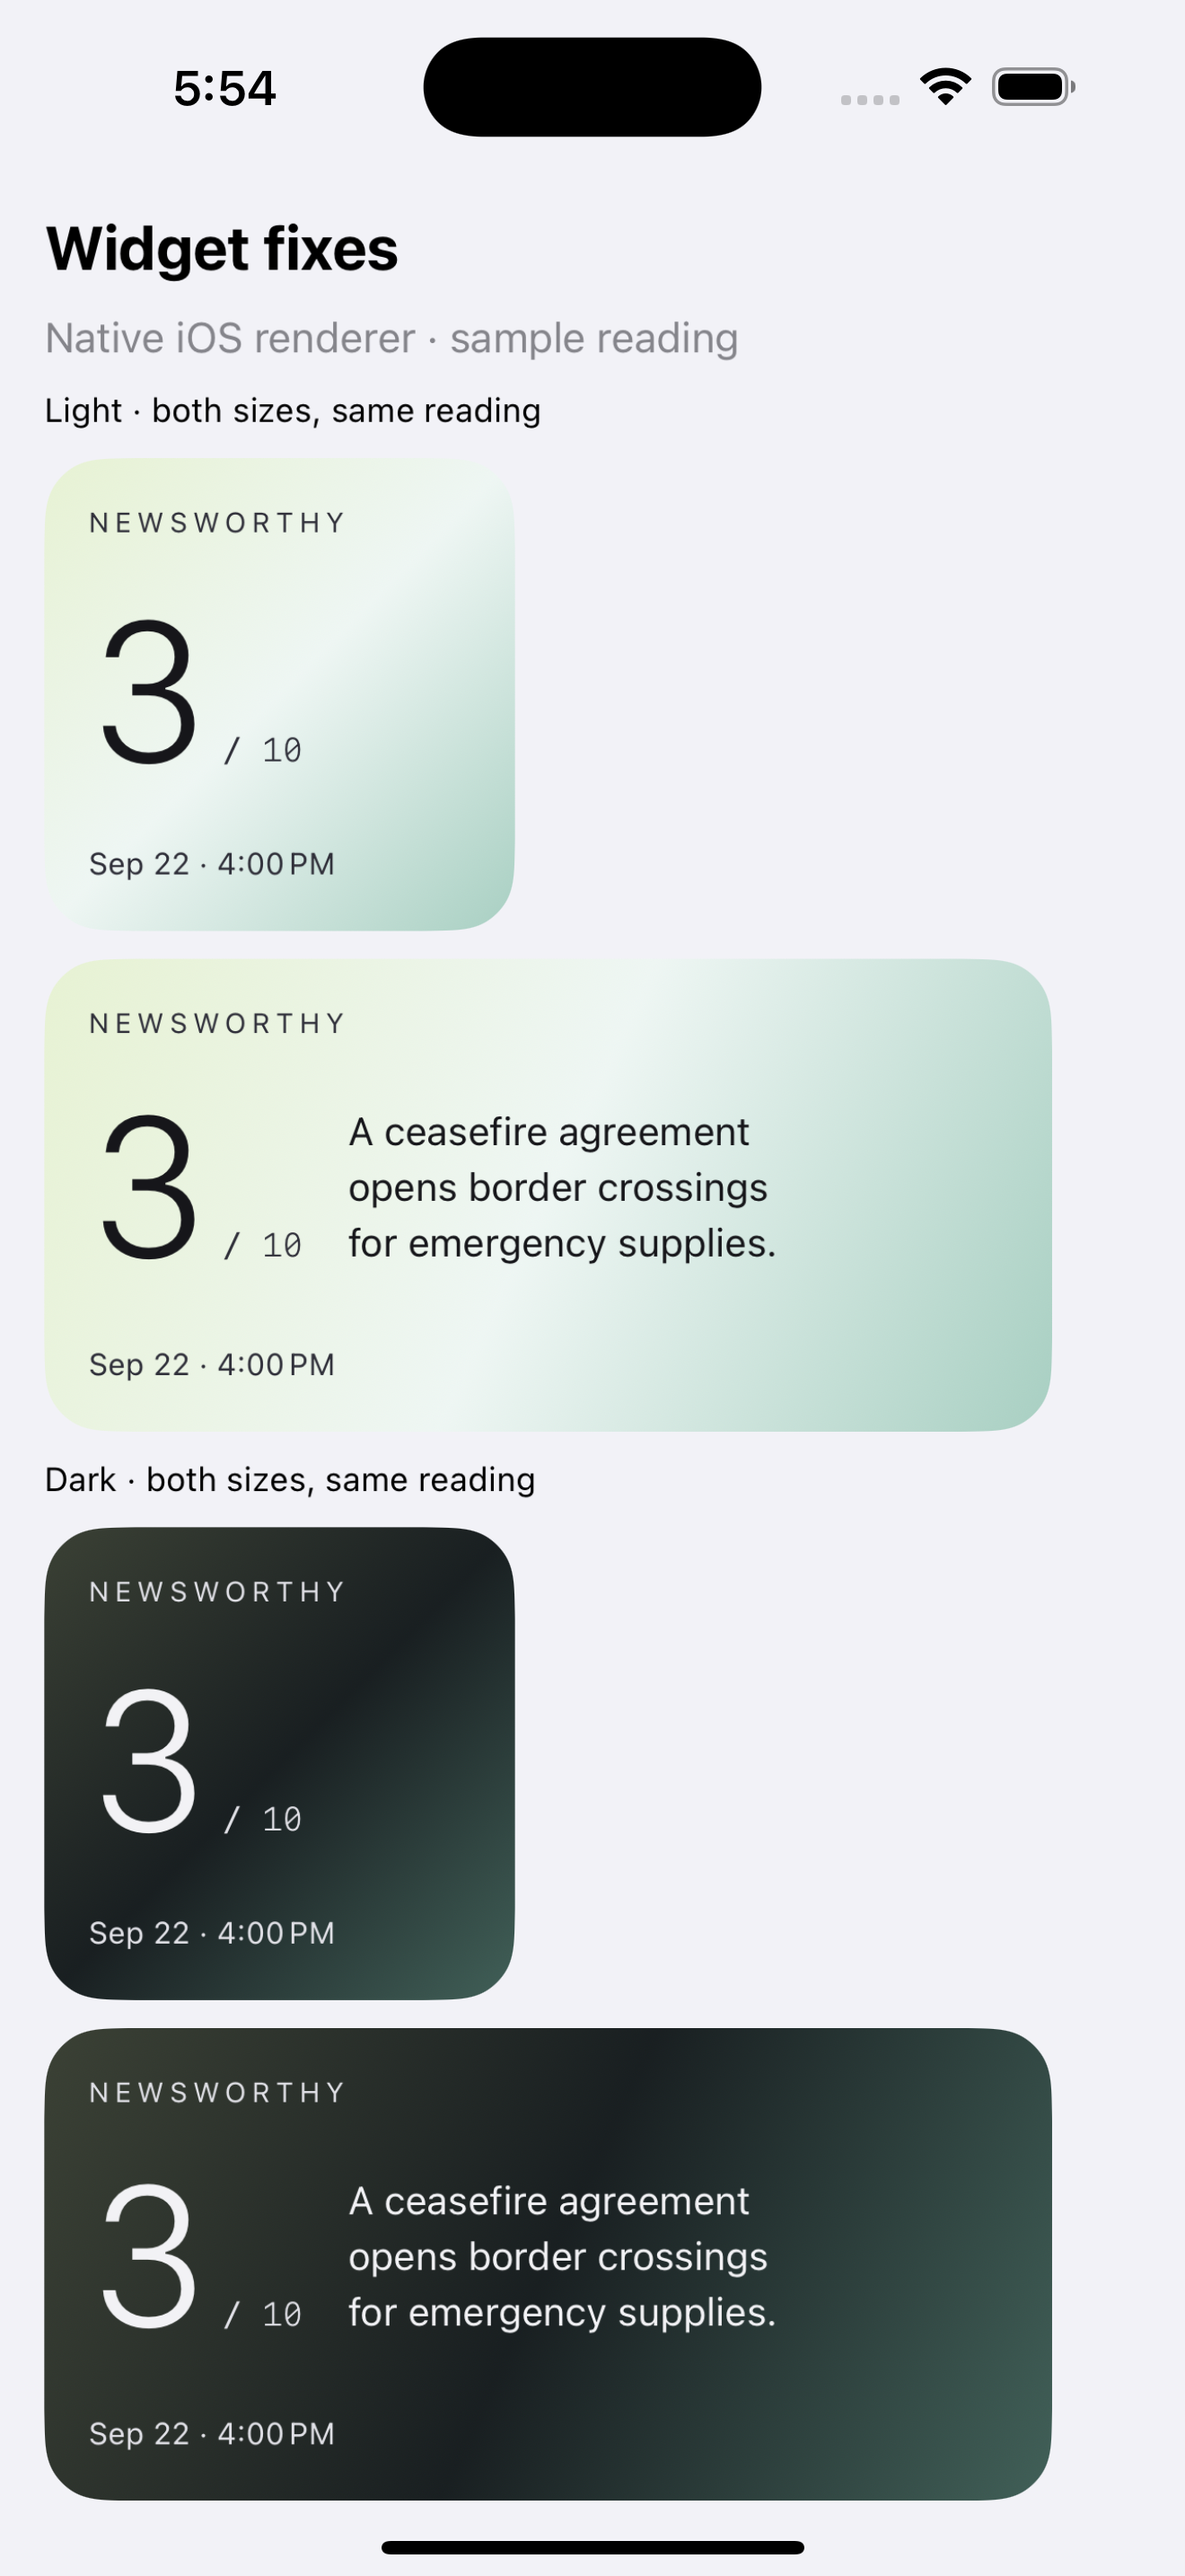
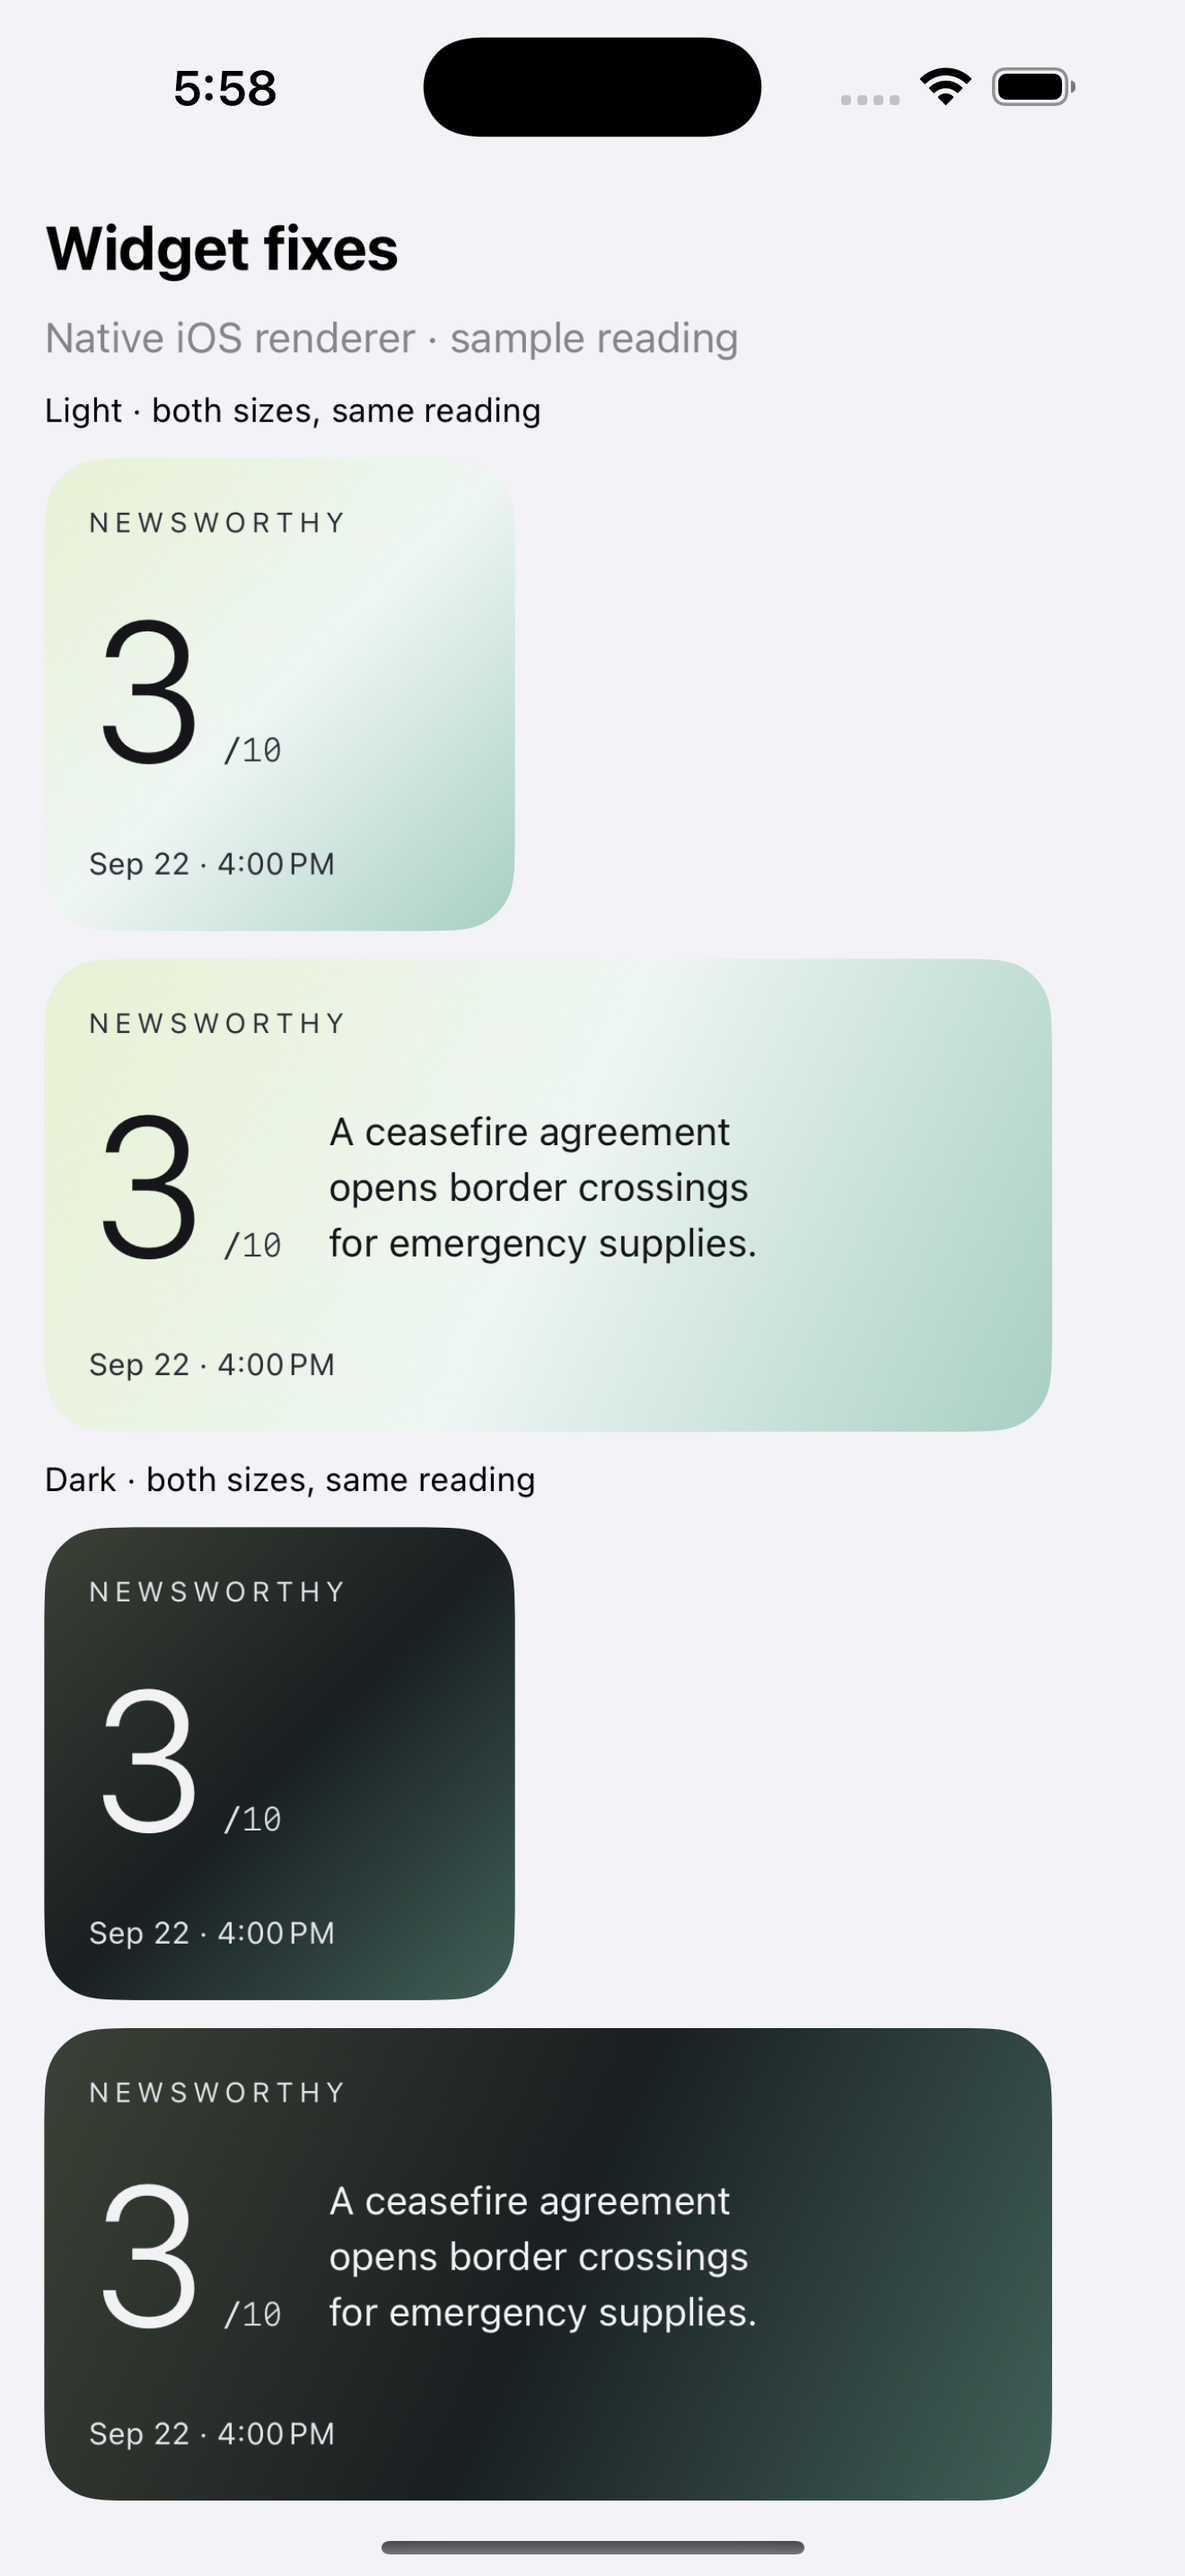
Use native glyph spacing for a visibly tighter widget denominator

diff --git a/test/surface-design.test.js b/test/surface-design.test.js
@@ -64,8 +64,8 @@ test('native widget implementations satisfy the same compact/expanded design con
 const regressions = [
   ['iOS score above third baseline', s => { s.swift = s.swift.replace('return idealSize * scale', 'return WidgetTypography.scoreSize * scale'); }, /measured baseline size/],
   ['Android score above third baseline', s => { s.java = s.java.replace('targetCapHeight / -numberInk.top', '1'); }, /third baseline/],
-  ['wide Android denominator space', s => { s.light = s.light.replace('∕ 10', '∕ 10'); }, /optically aligned division slash/],
-  ['wide iOS denominator space', s => { s.swift = s.swift.replaceAll('∕ 10', '∕ 10'); }, /iOS adaptive denominator/],
+  ['wide Android denominator space', s => { s.light = s.light.replace('∕10', '∕ 10'); }, /optically aligned division slash/],
+  ['wide iOS denominator space', s => { s.swift = s.swift.replaceAll('∕10', '∕ 10'); }, /iOS adaptive denominator/],
   ['proportional Android digits', s => { s.compact = s.compact.replaceAll('monospace', 'sans-serif-light'); }, /monospace typography/],
   ['proportional iOS digits', s => { s.swift = s.swift.replaceAll('design: .monospaced', 'design: .default'); }, /monospace face/],
   ['stale iOS background identity', s => { s.swift = s.swift.replace('.id(entry.reading?.score)', '.id(1)'); }, /background change identity/],
@@ -78,10 +78,10 @@ const regressions = [
   ['expanded text moved below number', s => { s.expanded = s.expanded.replace('android:orientation="horizontal" android:baselineAligned="false"', 'android:orientation="vertical" android:baselineAligned="false"'); }, /expanded description direction/],
   ['iOS text moved below number', s => { s.swift = s.swift.replace('bounds.minX + score.width + WidgetTypography.columnGap', 'bounds.minX'); }, /iOS explanation beside numeral/],
   ['iOS lost optical top alignment', s => { s.swift = s.swift.replace('scoreCapHeight - score[.firstTextBaseline]', '0'); }, /iOS optical score top/],
-  ['low-hanging Android slash', s => { s.light = s.light.replace('∕ 10', '/10'); }, /optically aligned division slash/],
-  ['low-hanging iOS slash', s => { s.swift = s.swift.replaceAll('∕ 10', '/10'); }, /iOS adaptive denominator/],
-  ['crowded Android slash', s => { s.light = s.light.replace('∕ 10', '∕10'); }, /optically aligned division slash/],
-  ['crowded iOS slash', s => { s.swift = s.swift.replaceAll('∕ 10', '∕10'); }, /iOS adaptive denominator/],
+  ['low-hanging Android slash', s => { s.light = s.light.replace('∕10', '/10'); }, /optically aligned division slash/],
+  ['low-hanging iOS slash', s => { s.swift = s.swift.replaceAll('∕10', '/10'); }, /iOS adaptive denominator/],
+  ['extra Android slash space', s => { s.light = s.light.replace('∕10', '∕ 10'); }, /optically aligned division slash/],
+  ['extra iOS slash space', s => { s.swift = s.swift.replaceAll('∕10', '∕ 10'); }, /iOS adaptive denominator/],
   ['full-size /10', s => { s.compact = s.compact.replace('android:textSize="12sp"', 'android:textSize="52sp"'); }, /compact denominator size/],
   ['lost baseline', s => { s.expanded = s.expanded.replace('android:baselineAligned="true"', 'android:baselineAligned="false"'); }, /expanded denominator baseline/],
   ['different compact score', s => { s.compact = s.compact.replace('69sp', '40sp'); }, /compact score size/],
@@ -234,21 +234,21 @@ test('header gate rejects iOS glass returning on either control', () => {
 
 test('reading gate rejects the low-hanging text slash returning', () => {
   const source = readFileSync(new URL('../apps/client/app/index.tsx', import.meta.url), 'utf8');
-  const sourceOverride = source.replace('>∕ 10</Text>', '>/10</Text>');
+  const sourceOverride = source.replace('>∕10</Text>', '>/10</Text>');
   assert.notEqual(sourceOverride, source);
   assert.throws(() => inspectReading({ sourceOverride, platform: 'web', width: 390, height: 844, score: 3, dark: false }), /all reading design roles/);
 });
 
-test('reading gate rejects the slash touching the ten', () => {
+test('reading gate rejects the extra space after the slash', () => {
   const source = readFileSync(new URL('../apps/client/app/index.tsx', import.meta.url), 'utf8');
-  const sourceOverride = source.replace('>∕ 10</Text>', '>∕10</Text>');
+  const sourceOverride = source.replace('>∕10</Text>', '>∕ 10</Text>');
   assert.notEqual(sourceOverride, source);
   assert.throws(() => inspectReading({ sourceOverride, platform: 'web', width: 390, height: 844, score: 10, dark: false }), /all reading design roles/);
 });
 
 test('reading gate rejects a full-width space or proportional score face', () => {
   const source = readFileSync(new URL('../apps/client/app/index.tsx', import.meta.url), 'utf8');
-  for (const sourceOverride of [source.replace('∕ 10', '∕ 10'), source.replaceAll('fontFamily: scoreFont', "fontFamily: 'sans-serif'")]) {
+  for (const sourceOverride of [source.replace('∕10', '∕ 10'), source.replaceAll('fontFamily: scoreFont', "fontFamily: 'sans-serif'")]) {
     assert.notEqual(sourceOverride, source);
     assert.throws(() => inspectReading({ sourceOverride, platform: 'ios', width: 390, height: 844, score: 3, dark: false }));
   }

diff --git a/apps/client/targets/widget/NewsworthyWidget.swift b/apps/client/targets/widget/NewsworthyWidget.swift
@@ -139,7 +139,7 @@ struct ReadingContent: View {
         let idealSize = WidgetTypography.scoreSize * targetCapHeight / font.capHeight
         let fittedFont = UIFont.monospacedSystemFont(ofSize: idealSize, weight: .light)
         let width = ("10" as NSString).size(withAttributes: [.font: fittedFont]).width
-        let denominator = (" ∕ 10" as NSString).size(withAttributes: [.font: UIFont.monospacedSystemFont(ofSize: WidgetTypography.denominatorSize, weight: .light)]).width
+        let denominator = (" ∕10" as NSString).size(withAttributes: [.font: UIFont.monospacedSystemFont(ofSize: WidgetTypography.denominatorSize, weight: .light)]).width
         let scale = min(1, max(0.4, min(size.height / targetCapHeight, (size.width - denominator) / width)))
         return idealSize * scale
     }
@@ -148,7 +148,7 @@ struct ReadingContent: View {
         (Text(entry.reading.map { String($0.score) } ?? "–")
             .font(.system(size: size, weight: .light, design: .monospaced))
             .tracking(-size * 0.04)
-         + Text(" ∕ 10")
+         + Text(" ∕10")
             .font(.system(size: WidgetTypography.denominatorSize, weight: .light, design: .monospaced))
             .tracking(0)
             .foregroundColor(Color("NewsworthyGradientMuted")))

diff --git a/apps/client/app/index.tsx b/apps/client/app/index.tsx
@@ -70,7 +70,7 @@ export default function Home() {
             style={{ color: theme.ink, fontSize: scoreSize, lineHeight: scoreSize * 1.05, flexShrink: 1, fontWeight: '300', fontFamily: scoreFont, fontVariant: ['tabular-nums'], letterSpacing: -scoreSize * 0.055 }}>
             {reading?.score ?? '–'}
           </Text>
-          <Text accessible={false} numberOfLines={1} maxFontSizeMultiplier={1.5} style={{ color: theme.muted, fontSize: landscape ? 17 : 20, fontWeight: '300', fontFamily: scoreFont, marginLeft: 9 }}>∕ 10</Text>
+          <Text accessible={false} numberOfLines={1} maxFontSizeMultiplier={1.5} style={{ color: theme.muted, fontSize: landscape ? 17 : 20, fontWeight: '300', fontFamily: scoreFont, marginLeft: 9 }}>∕10</Text>
         </View>
         <Text selectable testID="rating-explanation" style={{ color: theme.ink, fontSize: sentenceSize, lineHeight: sentenceSize * 1.5, textAlign: 'center', maxWidth: landscape ? 600 : 320 * fontScale, marginTop: landscape ? 12 : 24 }}>{reading?.explanation ?? (failed && !loading ? 'The latest rating is unavailable.' : '')}</Text>
         {reading && <Text selectable style={{ color: theme.muted, fontSize: 12, textAlign: 'center', marginTop: landscape ? 10 : 18 }}>Updated {relative}</Text>}

diff --git a/test/helpers/widget-contract.js b/test/helpers/widget-contract.js
@@ -128,7 +128,7 @@ export function checkWidgetDesign(sources = widgetSources()) {
   assert.deepEqual(extract(swift, /static let denominatorSize: CGFloat = (\d+)/, 'iOS denominator size'), [c.denominatorSize]);
   assert.deepEqual(extract(swift, /static let explanationSize: CGFloat = (\d+)/, 'iOS explanation size'), [c.explanationSize]);
   assert.deepEqual(extract(swift, /static let explanationLineHeight: CGFloat = (\d+)/, 'iOS line rhythm'), [c.explanationLineHeight]);
-  assert.match(swift, /\+ Text\(" ∕ 10"\)[\s\S]*?foregroundColor\(Color\("NewsworthyGradientMuted"\)\)/, 'iOS adaptive denominator');
+  assert.match(swift, /\+ Text\(" ∕10"\)[\s\S]*?foregroundColor\(Color\("NewsworthyGradientMuted"\)\)/, 'iOS adaptive denominator');
   assert.match(swift, /font\(\.system\(size: size, weight: \.light, design: \.monospaced\)\)/, 'iOS score uses a monospace face');
   assert.match(swift, /font\(\.system\(size: WidgetTypography.denominatorSize, weight: \.light, design: \.monospaced\)\)/, 'iOS denominator uses a monospace face');
   assert.doesNotMatch(swift, /monospacedDigitSystemFont/, 'measurement must use the full monospace face');

diff --git a/apps/client/plugins/widget-android/RatingWidget.java b/apps/client/plugins/widget-android/RatingWidget.java
@@ -153,7 +153,7 @@ public class RatingWidget extends AppWidgetProvider {
         float availableHeight = Math.max(24, height - 74) * density;
         float availableWidth = Math.max(36, width - 24 - (compact ? 0 : 112)) * density;
         float fit = Math.min(1, Math.min(availableHeight / number.getFontSpacing(),
-            (availableWidth - denominator.measureText("∕ 10") - 6 * density) / number.measureText("10")));
+            (availableWidth - denominator.measureText("∕10") - 6 * density) / number.measureText("10")));
         number.setTextSize(number.getTextSize() * Math.max(0.4f, fit));
         views.setTextViewTextSize(R.id.widget_score, TypedValue.COMPLEX_UNIT_PX, number.getTextSize());
         views.setTextViewTextSize(R.id.widget_denominator, TypedValue.COMPLEX_UNIT_PX, denominator.getTextSize());

diff --git a/design/README.md b/design/README.md
@@ -72,10 +72,10 @@ change to the navigation-bar slots or the title's horizontal position.
 
 `design/surfaces.json` records the approved typography and widget size rules.
 The full reading deliberately uses larger digits than widgets. Compact and expanded widgets use the same 69-point base numeral and a
-12-point `∕ 10`. Expanded descriptions use 14-point text on a 20-point line
+12-point `∕10`. Expanded descriptions use 14-point text on a 20-point line
 rhythm beside the numeral, with truncation at the available height.
-All reading surfaces use U+2215 DIVISION SLASH followed by U+2009 THIN SPACE
-for the displayed denominator. The thin space keeps the gap small but visible;
+All reading surfaces use U+2215 DIVISION SLASH immediately followed by `10`.
+The monospace glyph side bearings provide the small visible gap;
 the division slash’s stroke sits optically alongside the lining numerals instead of the ordinary
 slash’s descending tail. Keep the denominator in one text run, on the existing
 score baseline; do not add per-platform vertical offsets. Shared/copied readings
@@ -208,3 +208,8 @@ a hard ceiling that prevents the baseline from reaching line three.
 
 Verification for this revision is recorded in
 `store/widget-consistency-mono-verification.json`.
+
+Native font measurement found that SF Mono gives regular, thin, hair and narrow
+spaces almost the same advance. The denominator therefore uses `∕10`, with no
+extra blank: at 12 points it measures 22.06 points instead of 29.48. The slash and
+“1” remain visibly separated by their natural glyph side bearings.
